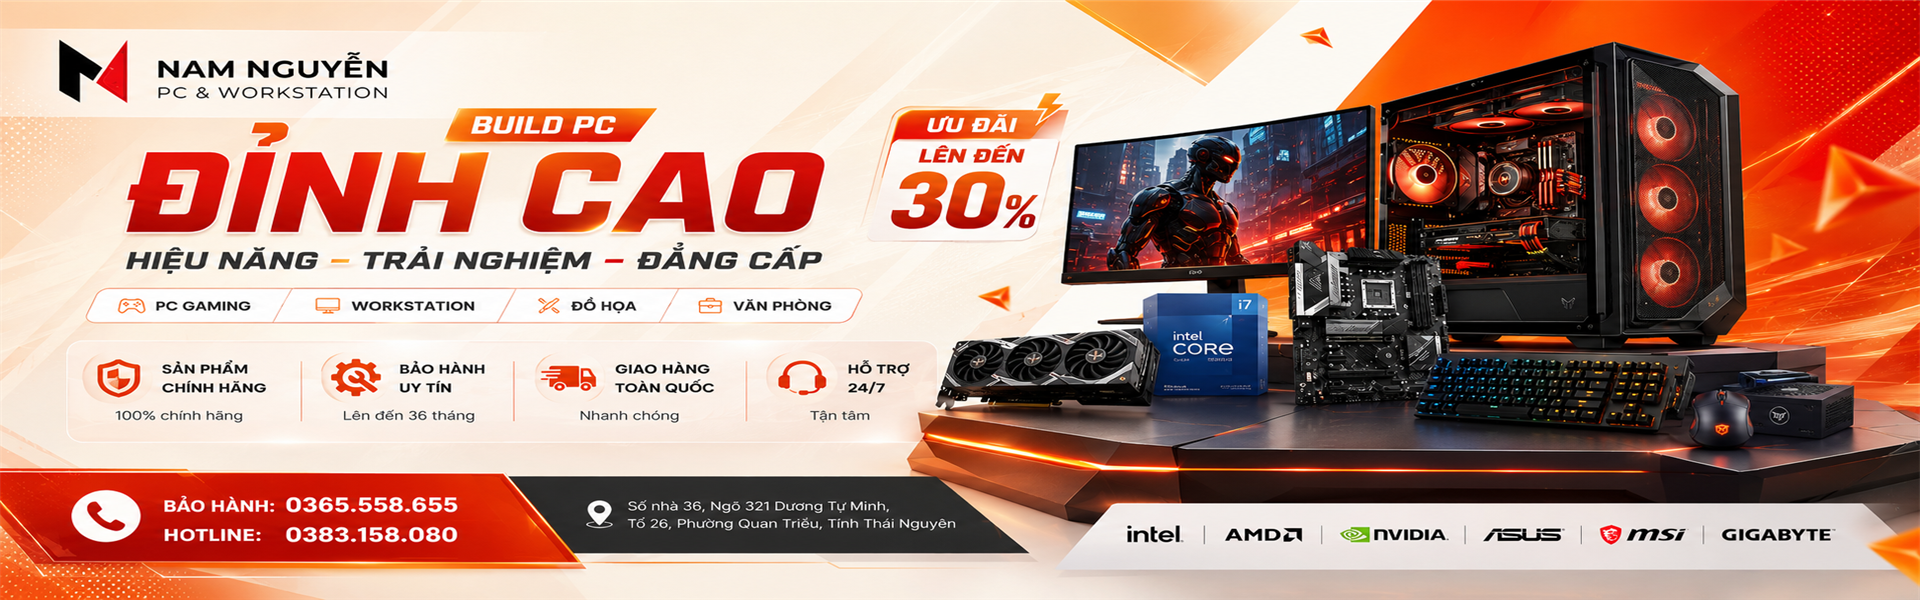
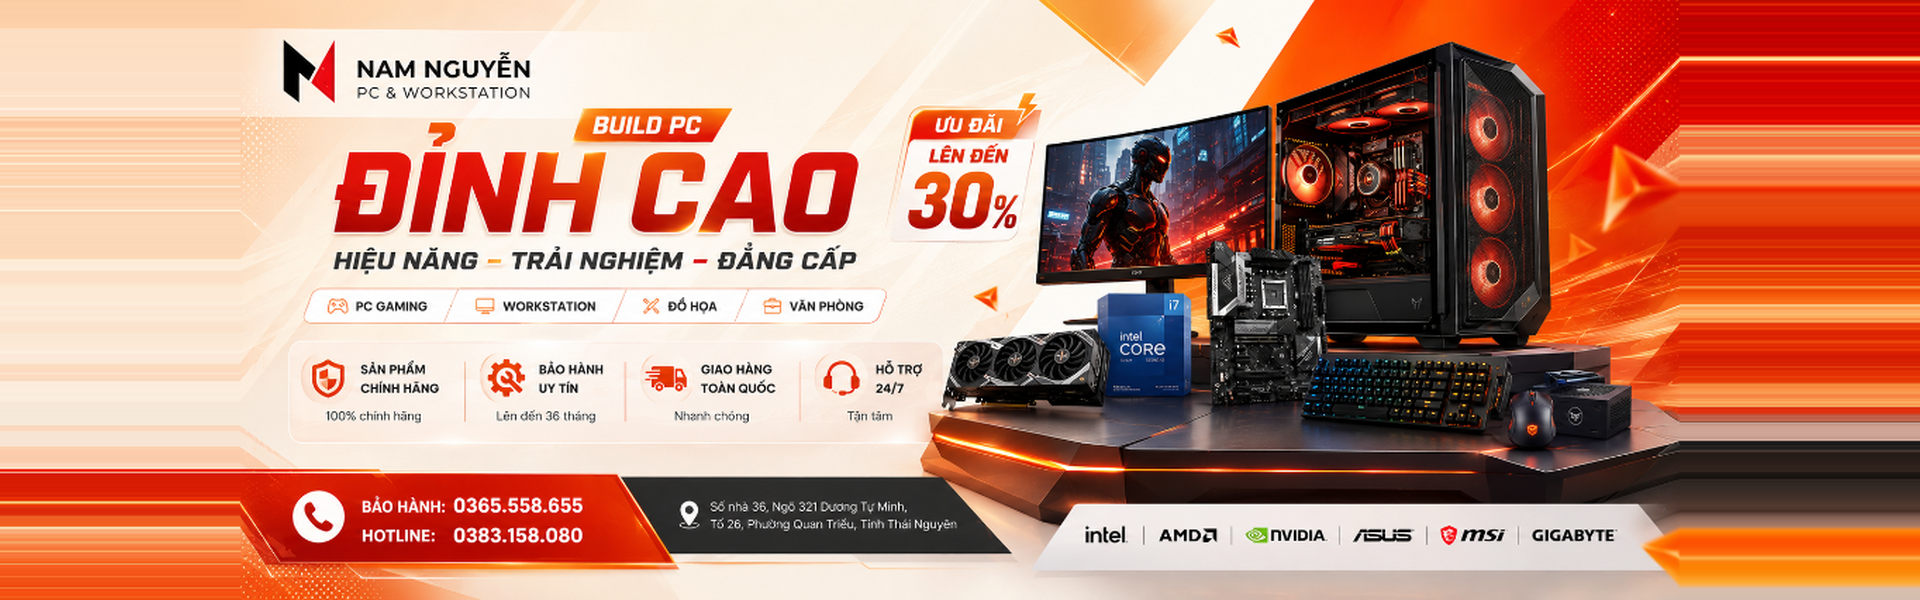
Fix responsive mobile layout for product detail page

diff --git a/frontend/product_detail.html b/frontend/product_detail.html
@@ -4,7 +4,7 @@
   <meta charset="UTF-8" />
   <meta name="viewport" content="width=device-width, initial-scale=1.0" />
   <title>Chi Tiết Sản Phẩm</title>
-  <link rel="stylesheet" href="style.css?v=7" />
+  <link rel="stylesheet" href="style.css?v=8" />
   <style>
     /* ══════════════════════════════════════
        Product Detail – Two Column Layout
@@ -388,13 +388,62 @@
        Responsive
     ══════════════════════════════════════ */
     @media (max-width: 900px) {
+      .detail-container {
+        padding: 1rem 0.5rem;
+      }
+      .product-name {
+        font-size: 1.25rem;
+        margin-bottom: 1rem;
+      }
       .detail-layout {
         flex-direction: column;
+        gap: 1.25rem;
       }
       .detail-left,
       .detail-right {
         flex: none;
-        width: 100%;
+        width: 100% !important;
+        max-width: 100% !important;
+        position: static;
+      }
+      .gallery-main-wrap {
+        max-height: 340px;
+        padding: 0.8rem;
+      }
+      .gallery-thumb {
+        width: 65px;
+        height: 65px;
+        min-width: 65px;
+        min-height: 65px;
+      }
+      .purchase-block {
+        padding: 1.2rem 1rem;
+      }
+      .price-current {
+        font-size: 1.5rem;
+      }
+      .btn-detail-action {
+        padding: 12px 16px !important;
+        font-size: 0.9rem !important;
+        border-radius: 10px !important;
+      }
+      .btn-detail-action.btn-buy-now {
+        padding: 14px 16px !important;
+        font-size: 0.95rem !important;
+      }
+      .product-description-card {
+        padding: 1rem;
+        margin-top: 1rem !important;
+      }
+      .desc-table-label {
+        width: 38%;
+        padding: 10px 12px;
+        font-size: 0.85rem;
+      }
+      .desc-table-value {
+        padding: 10px 12px;
+        font-size: 0.85rem;
+        word-break: break-word;
       }
     }
   </style>

diff --git a/backend/app.js b/backend/app.js
@@ -20,8 +20,9 @@ const PORT = process.env.PORT || 3000;
 // Gzip compression — reduces response size ~70%
 app.use(compression());
 
-// Serve static frontend files (Disable cache for HTML files so updates reflect immediately)
+// Serve static frontend files (7-day caching for assets, no-cache for HTML)
 app.use(express.static(path.join(__dirname, '..', 'frontend'), {
+  maxAge: '7d',
   setHeaders: (res, filePath) => {
     if (filePath.endsWith('.html')) {
       res.setHeader('Cache-Control', 'no-cache, no-store, must-revalidate');

diff --git a/frontend/index.html b/frontend/index.html
@@ -186,7 +186,7 @@
         track.innerHTML = activeBanners.map((b, i) => {
           const bannerImgRaw = b.hinh_anh || '';
           const bannerImg = (bannerImgRaw.startsWith('http://') || bannerImgRaw.startsWith('https://') || bannerImgRaw.startsWith('/')) ? bannerImgRaw : '/' + bannerImgRaw;
-          const finalImg = convertImageUrl(bannerImg);
+          const finalImg = convertImageUrl(bannerImg) + '?v=1920';
 
           return `
             <div class="slide ${i === 0 ? 'active' : ''}">

diff --git a/frontend/style.css b/frontend/style.css
@@ -1448,11 +1448,11 @@ ul {
     gap: 2px !important;
     margin-bottom: 3px !important;
   }
-  .btn-price-tag,
-  .btn-contact-premium,
-  .btn-add-cart,
-  .btn-buy-now,
-  .btn-stock {
+  .product-card .btn-price-tag,
+  .product-card .btn-contact-premium,
+  .product-card .btn-add-cart,
+  .product-card .btn-buy-now,
+  .product-card .btn-stock {
     padding: 4px 2px !important;
     font-size: 0.68rem !important;
     border-radius: 4px !important;
